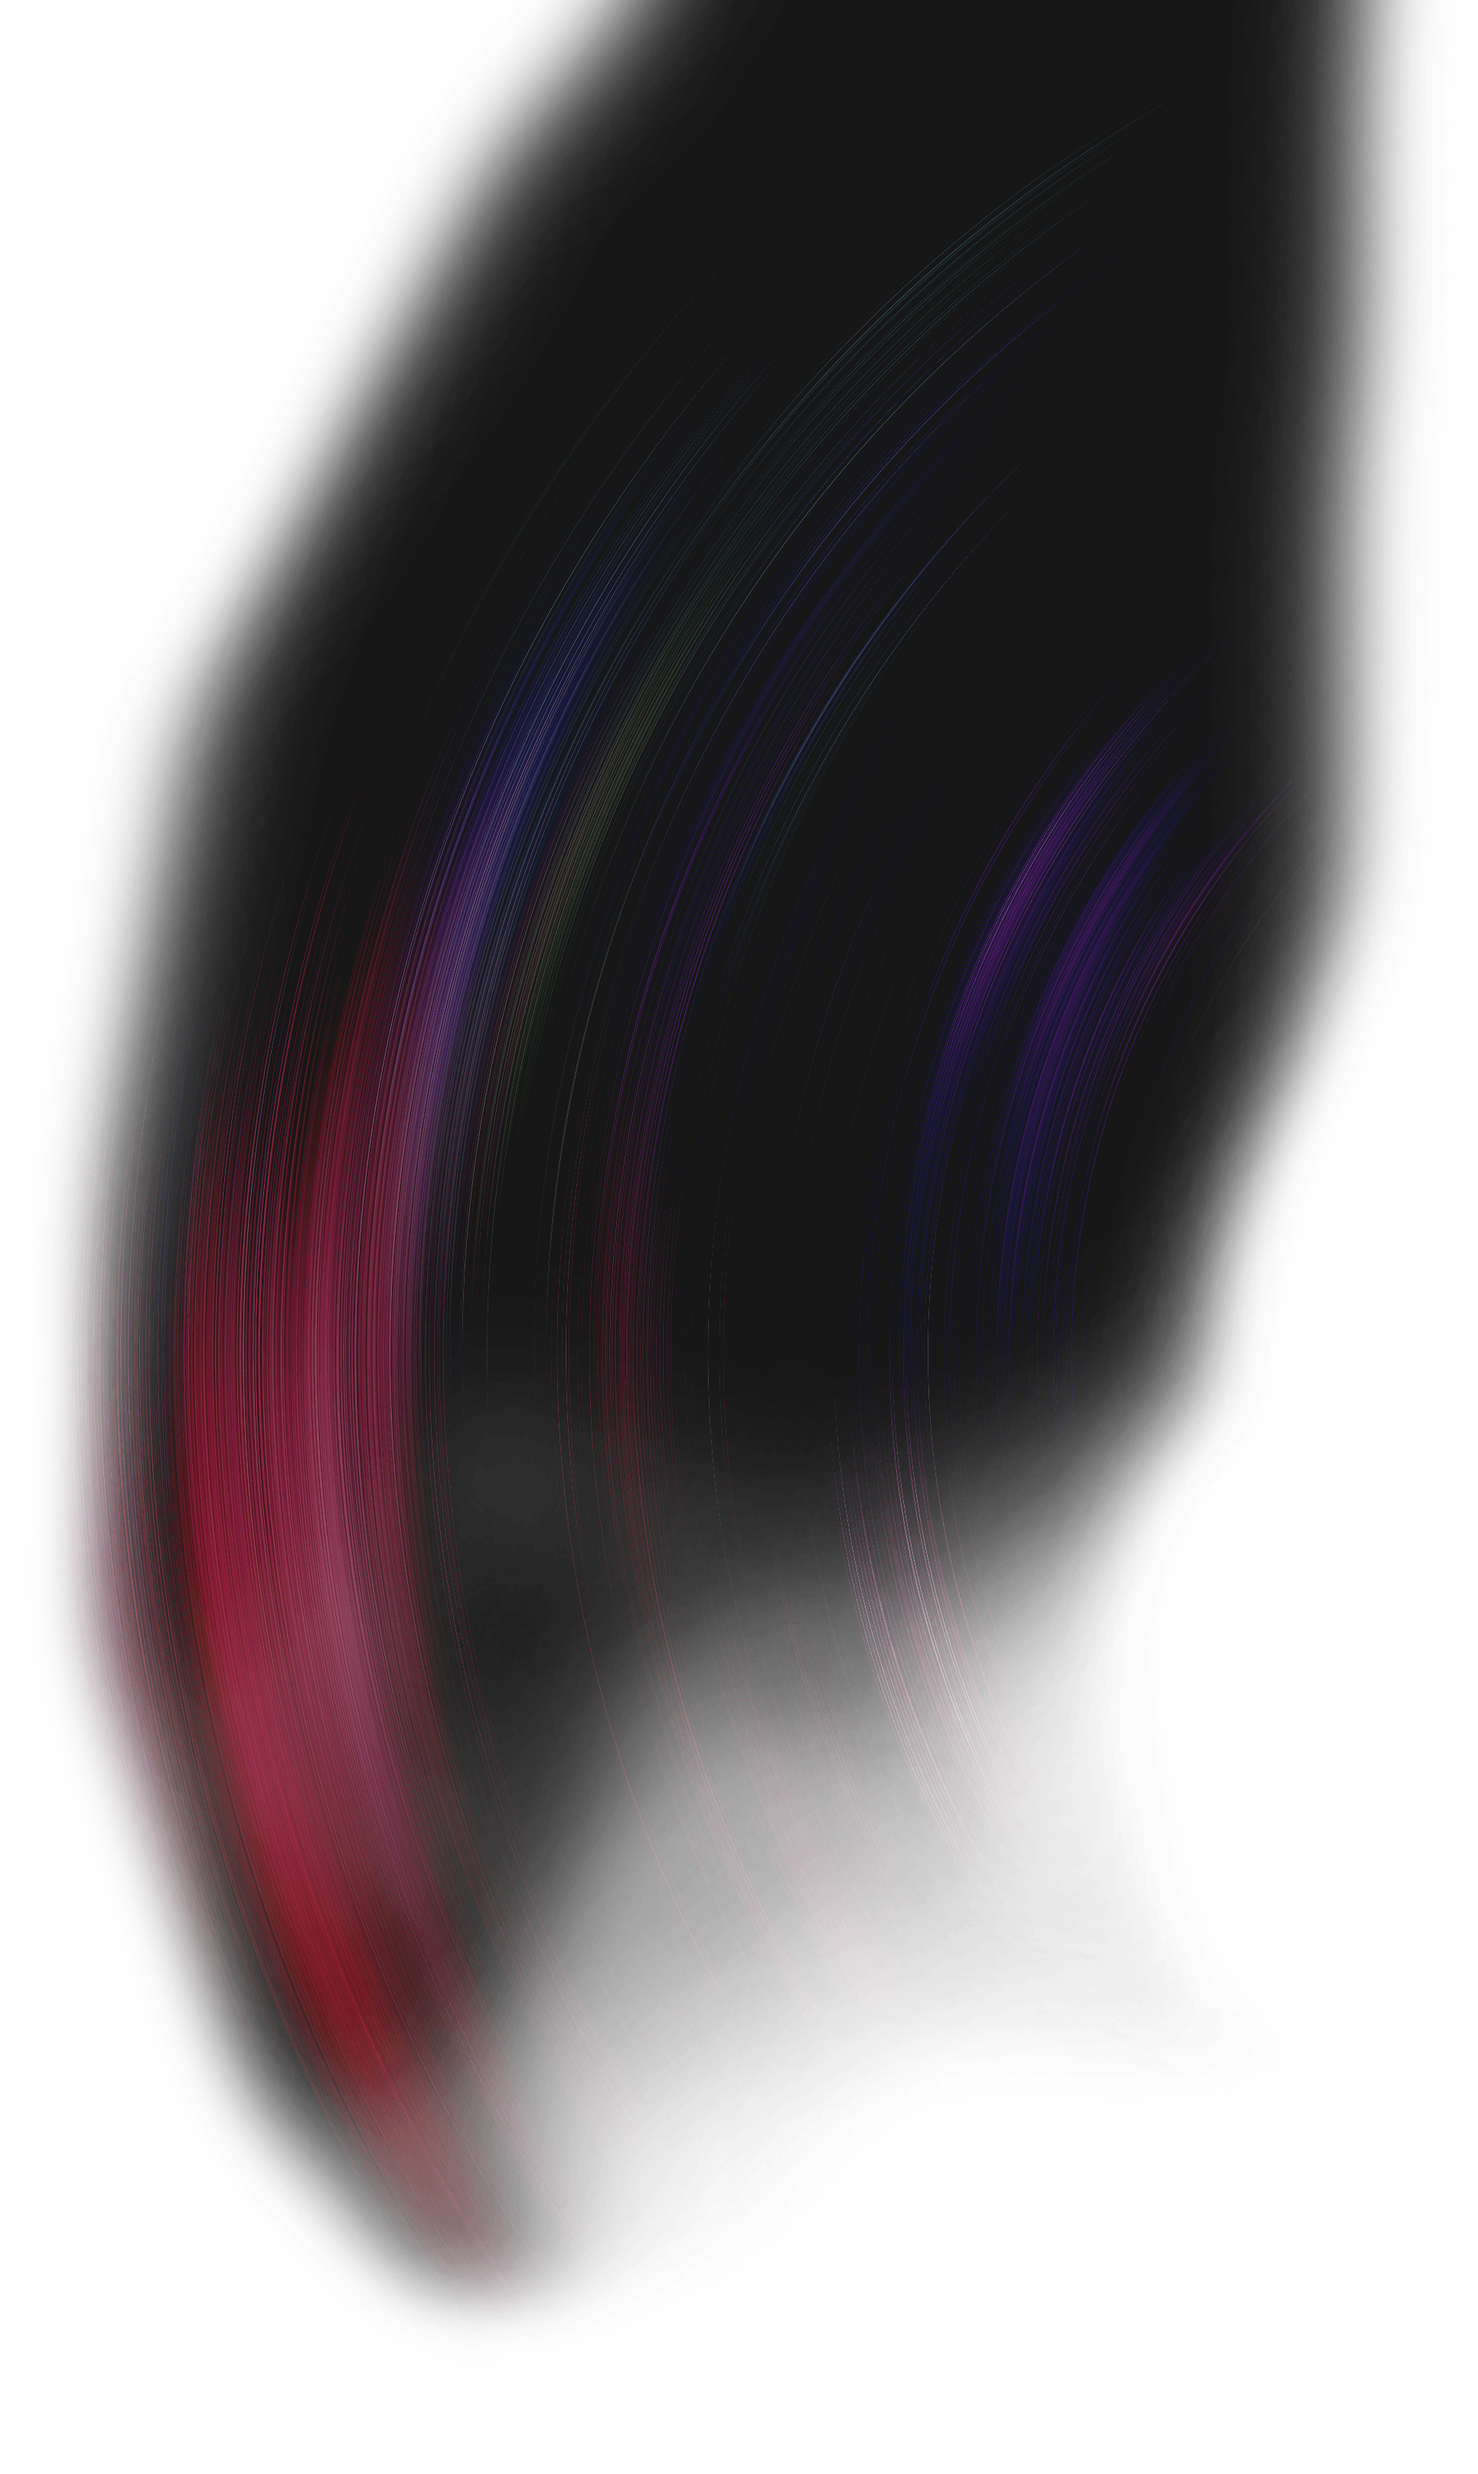
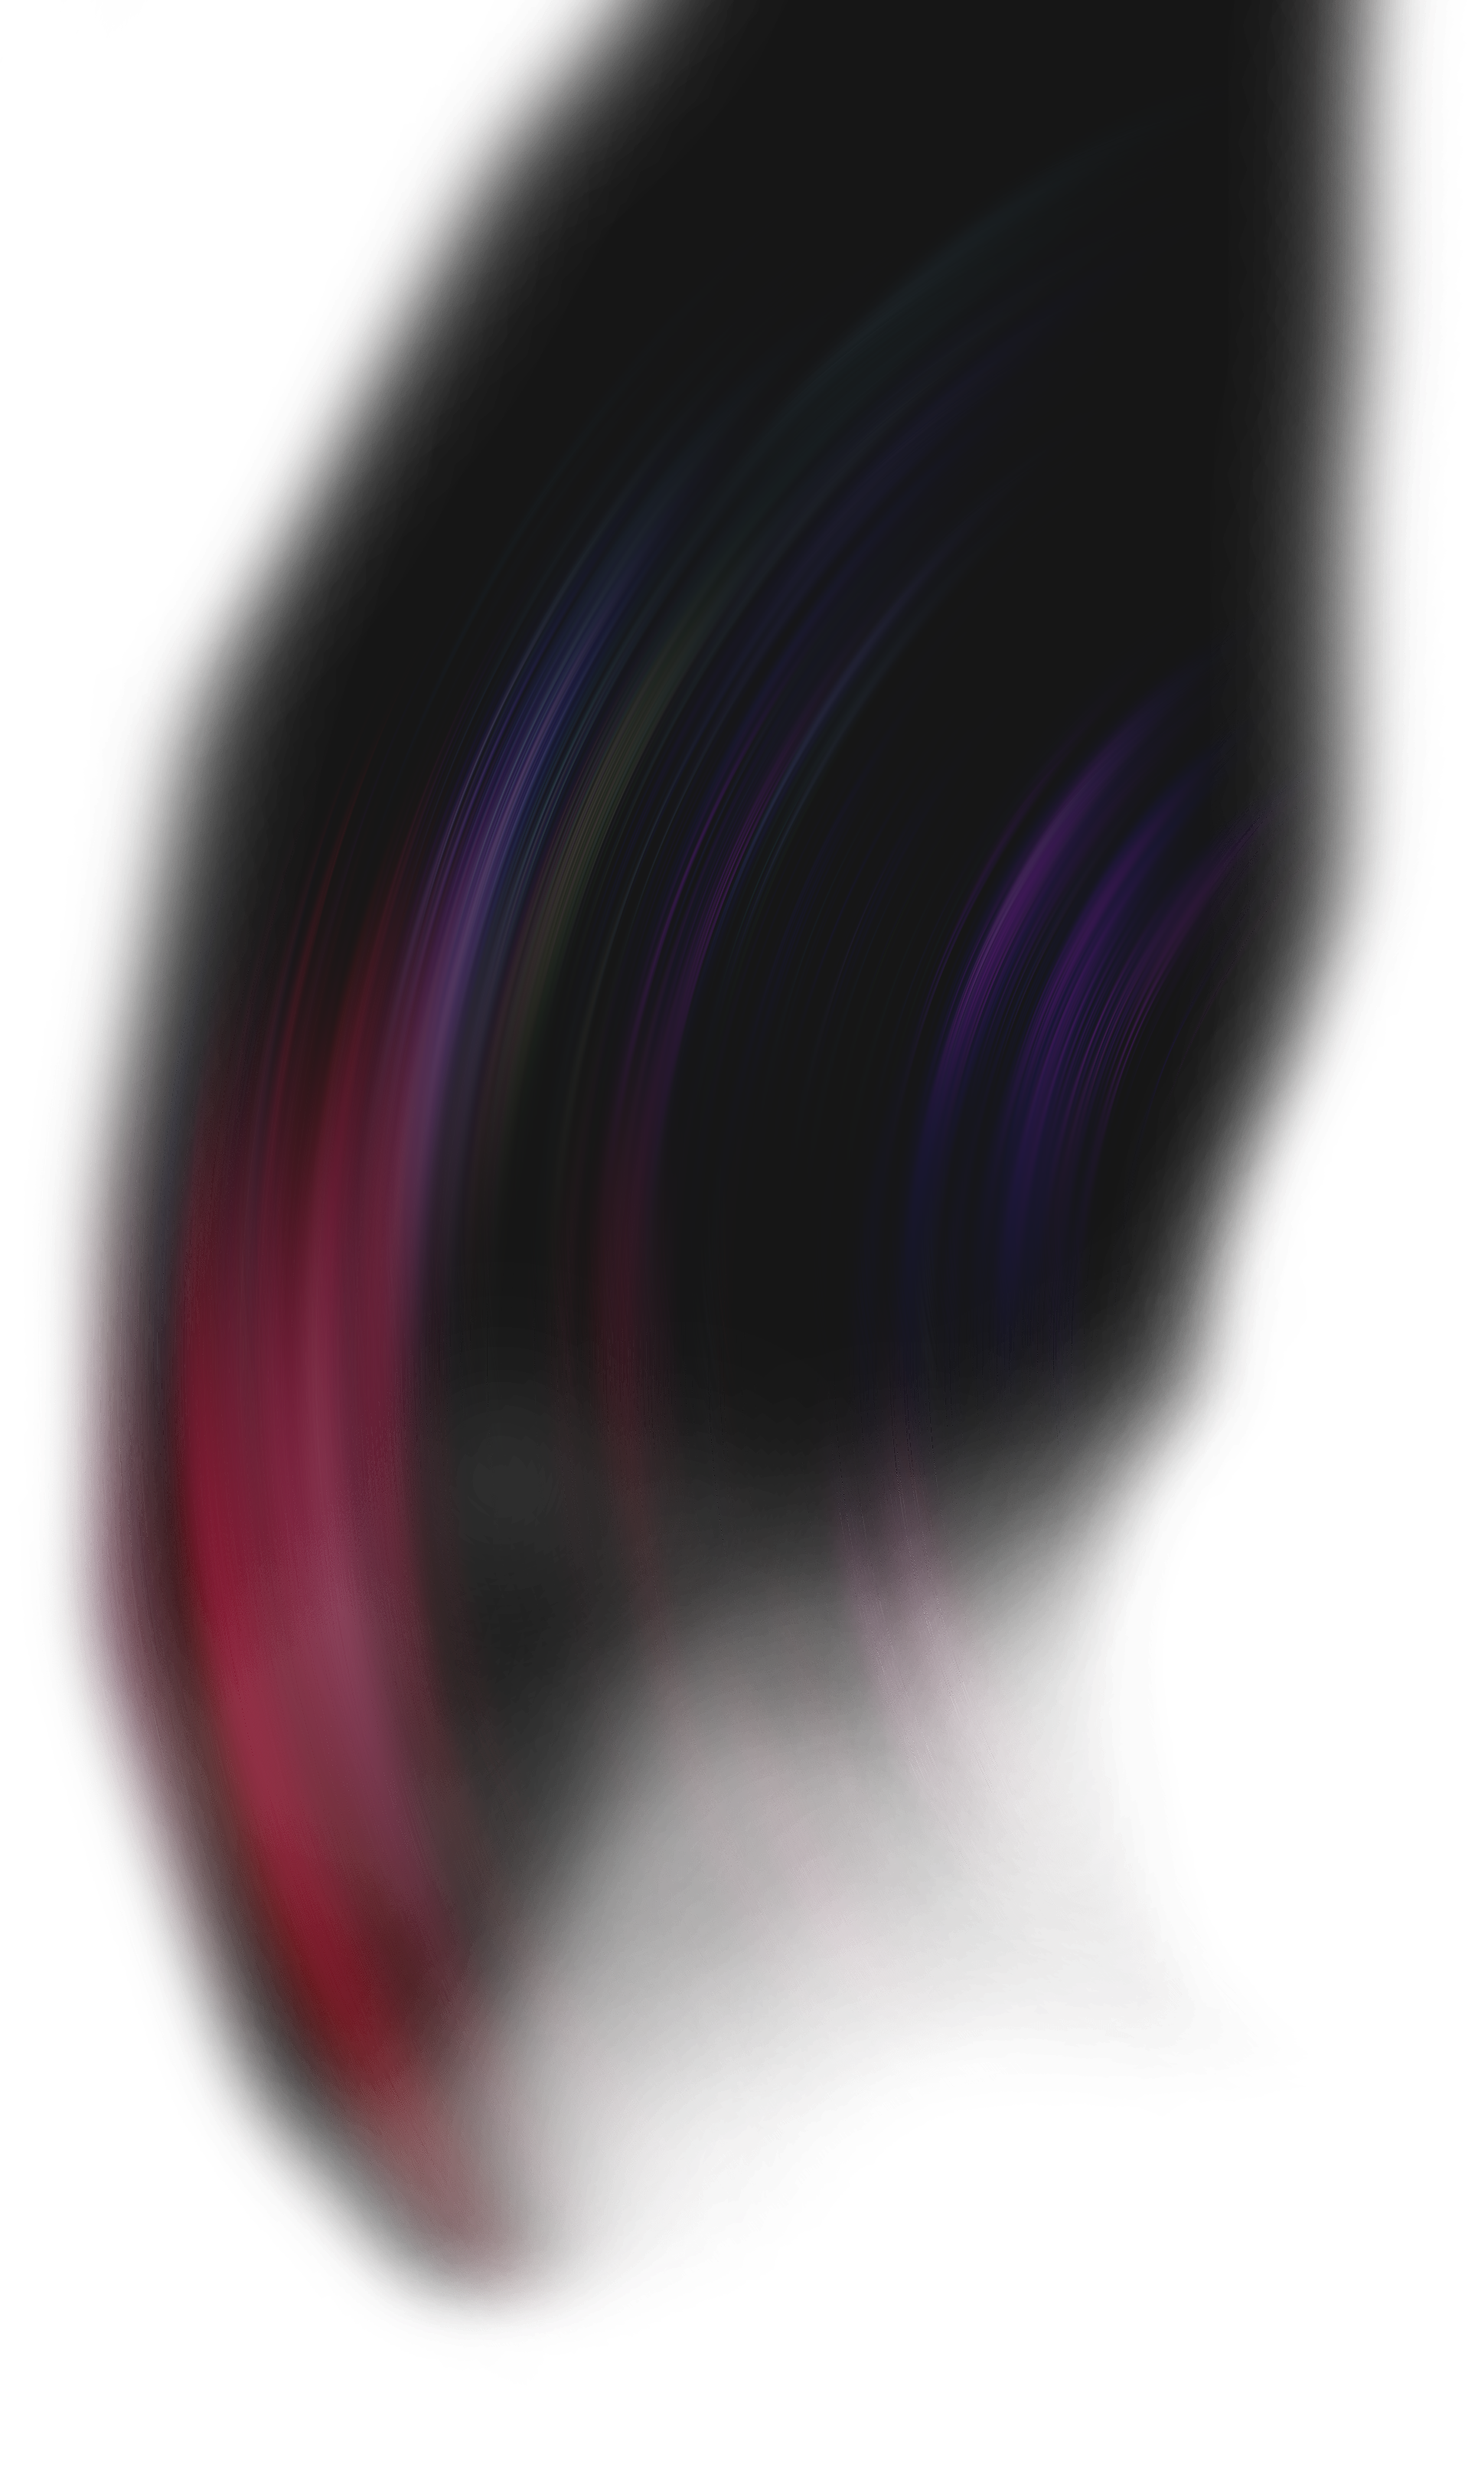
Add files via upload

diff --git a/Websites/Write/Covers_4.css b/Websites/Write/Covers_4.css
@@ -85,7 +85,7 @@ background:url('./1.png');
 background-position:center;
 background-repeat:no-repeat;
 background-size:contain;
-transform:rotate(-23deg);
+transform:rotate(-4deg);
 transform-origin:104vw 34vw;
 height:212vh;
 width:144vw;
@@ -94,32 +94,26 @@ right:0;
 left:0;
 bottom:0;
 animation-name:tio;
-animation-duration:124s;
+animation-duration:81s;
+animation-delay:1.4s;
 animation-fill-mode:both;
 animation-play-state:running;
 animation-iteration-count:infinite;
 animation-direction:alternate;
-animation-timing-function:cubic-bezier(.18,.14,.27,1);
+animation-timing-function:ease;
 z-index:0;
 }
 @keyframes tio {
 0% {
-transform:rotate(1deg);
+transform:rotate(-4deg);
+filter:hue-rotate(9deg);
 }
-27% {
-transform:rotate(14deg);
-}
-45% {
-transform:rotate(18deg);
-}
-54% {
+41% {
 transform:rotate(24deg);
-}
-72% {
-transform:rotate(27deg);
 }
 100% {
-transform:rotate(24deg);
+transform:rotate(41deg);
+filter:hue-rotate(-124deg);
 }
 }
 .CovernMum {
@@ -251,7 +245,7 @@ background-color:#0000;
 scroll-behavior:smooth;
 overflow-y:scroll;
 overflow-x:hidden;
-z-index:124;
+z-index:1;
 }
 .PLATEGIORPTIN-item {
 width:100vw;
@@ -276,7 +270,7 @@ background-color:#0000;
 scroll-behavior:smooth;
 overflow-y:scroll;
 overflow-x:hidden;
-z-index:124;
+z-index:1;
 }
 }
 @media (max-width:1400px) {
@@ -295,7 +289,7 @@ background-color:#0000;
 scroll-behavior:smooth;
 overflow-y:scroll;
 overflow-x:hidden;
-z-index:124;
+z-index:1;
 }
 }
 @media (max-width:1244px) {
@@ -314,7 +308,7 @@ background-color:#0000;
 scroll-behavior:smooth;
 overflow-y:scroll;
 overflow-x:hidden;
-z-index:124;
+z-index:1;
 }
 .PLATEGIORPTIN-item {
 display:flex;
